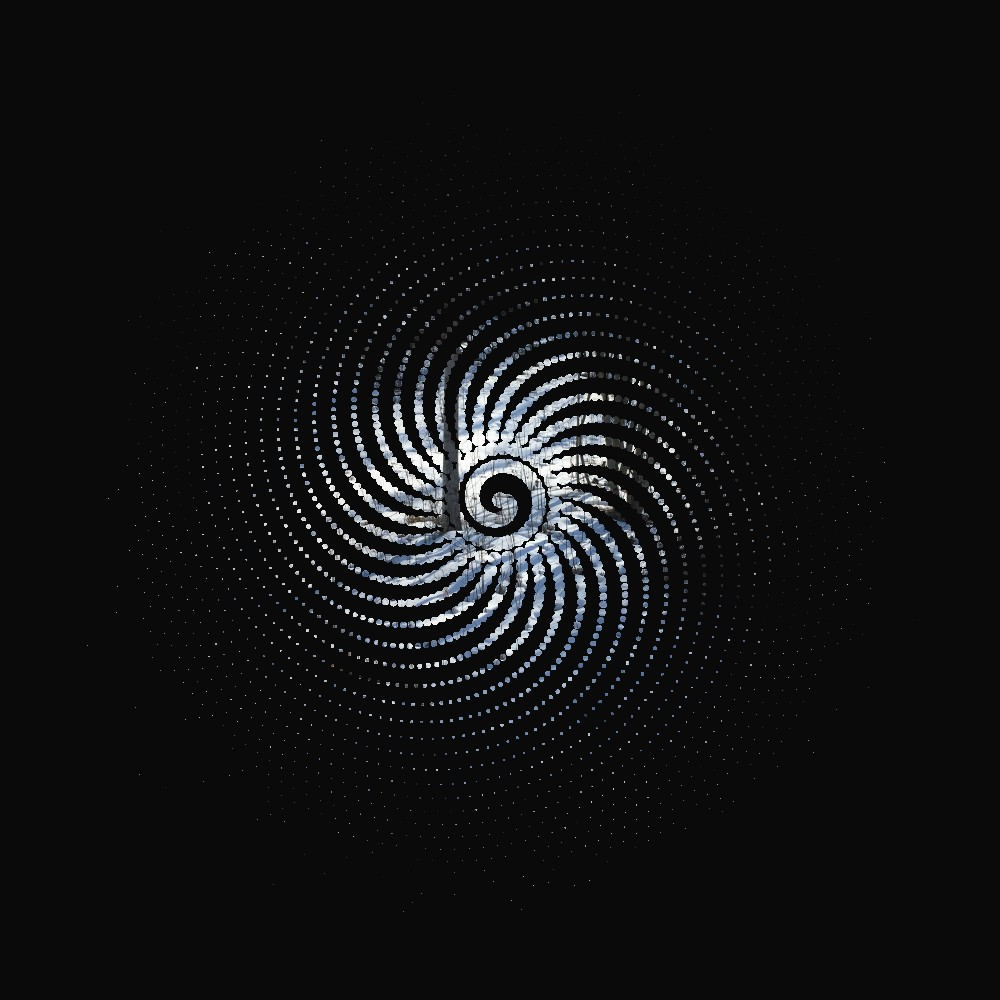
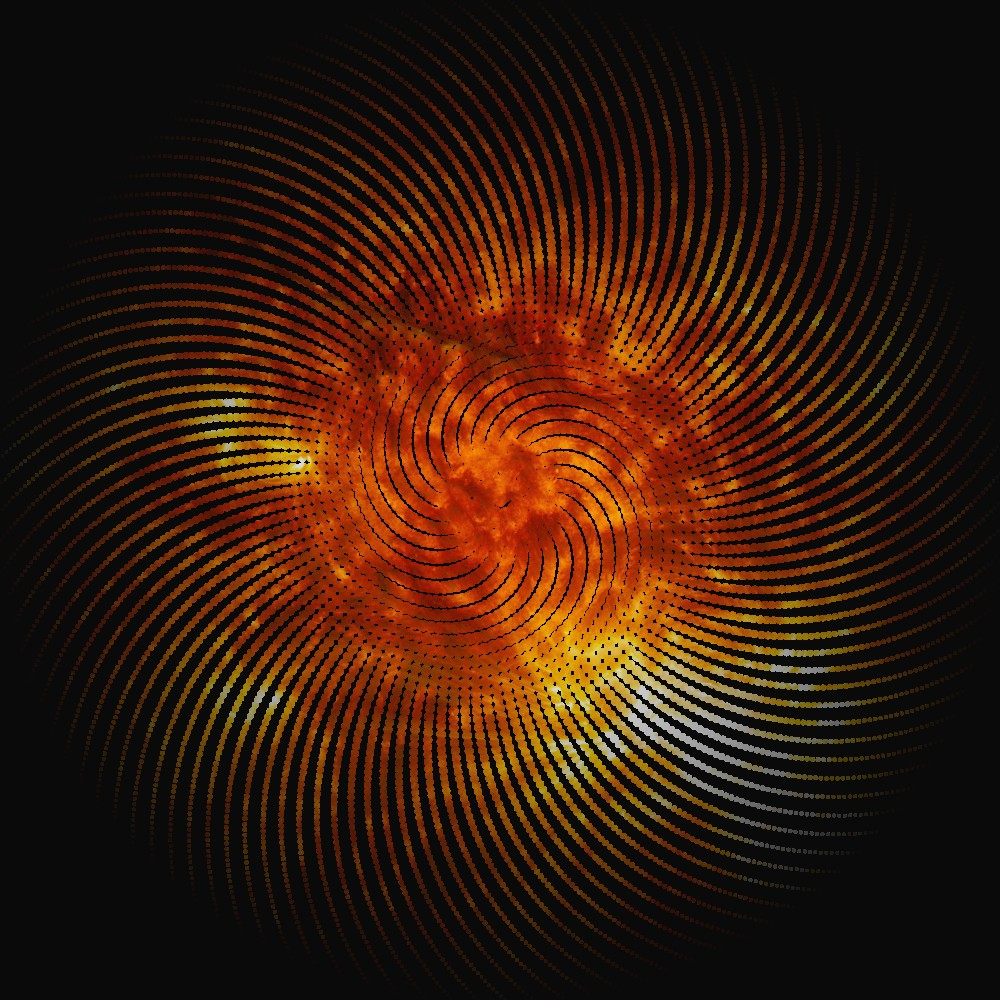
more examples for phyllotaxis

diff --git a/PSunflower/readme.MD b/PSunflower/readme.MD
@@ -10,10 +10,11 @@ I modified the original code to mask a background image, and to change the param
 
 # Examples
 
-| C | Angle | Example |
-|----:|--:|--------|
-|4.05|296.98|![example](./images/example1.jpg)|
-|7.41|12.94|![example 2](./images/example2.jpg)|
+| C | Divergence angle | Example |
+|:----:|:-------:|:--------:|
+|8.92|-14.24|![example](./images/example1.jpg)|
+|5.67|-41.42|![example 2](./images/example2.jpg)|
+|8.93|162.70|![example 3](./images/example3.jpg)|
 
 
 
@@ -25,8 +26,10 @@ Here I used again the still from the movie The Shining as the background, and cr
 
 
 # How to run
-Open `sunflower.pde` in Processing. To play with other images, add them to the `data` folder and change the code with `loadImage()`:
+Open `PSunflower.pde` in Processing. To play with other images, add them to the `data` folder and change the code with `loadImage()`:
 ```java
   img = loadImage("model_1.png");
 ```
-
+Use keyboard arrows to adjust the two main parameters of this composition:  
+<kbd>LEFT</kbd>, <kbd>RIGHT</kbd>: Decreases/increases the size of the initial seeds  
+<kbd>DOWN</kbd>,<kbd>UP</kbd>: Decreases/increases the divergence angle (angle_0) 
